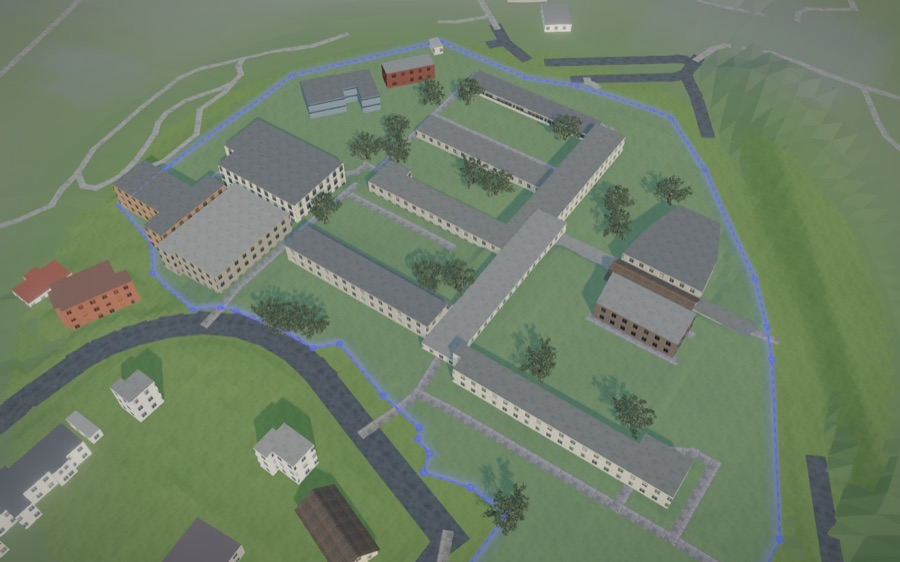
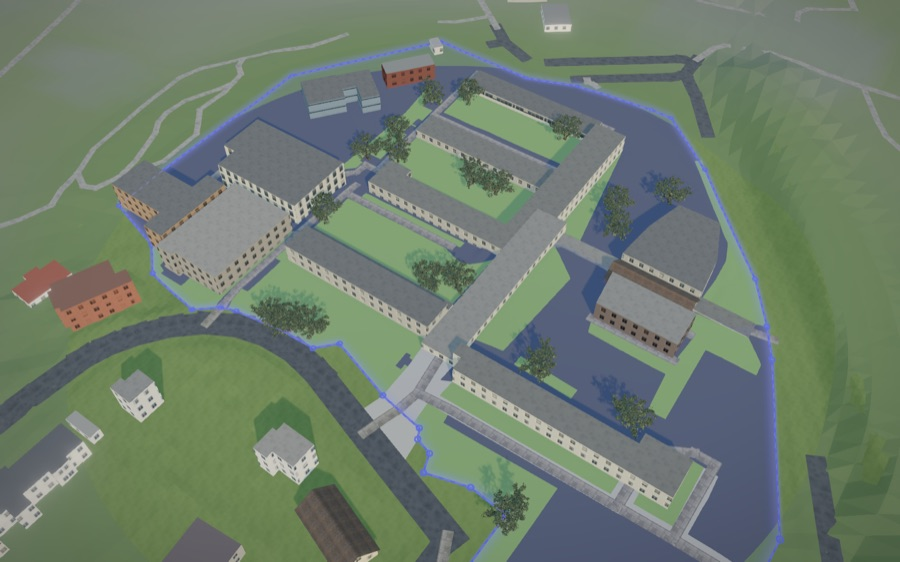
3D view: ground nobody has described renders as asphalt, not grass
The lawn had no depth offset while the plot was pushed back, so the lawn
showed through the asphalt plot. The lawn now lies behind the plot.
Homepage sample screenshots regenerated.

Claude-Session: https://claude.ai/code/session_01RDKnAet6JYboGt736HbMEX

diff --git a/assets/configurator/lawn.js b/assets/configurator/lawn.js
@@ -1,5 +1,6 @@
 import * as THREE from 'three';
 import { TerrainField } from './terrain.js';
+import { LAWN_OFFSET } from './ground_layers.js';
 import { LAWN, applyMetricUVs, proceduralTexture } from './procedural_textures.js';
 
 /**
@@ -121,6 +122,9 @@ export class Lawn {
             map: texture.map,
             bumpMap: texture.bumpMap,
             bumpScale: texture.bumpScale,
+            polygonOffset: true,
+            polygonOffsetFactor: LAWN_OFFSET,
+            polygonOffsetUnits: LAWN_OFFSET,
         }));
         ground.position.y = -0.002;
         ground.receiveShadow = true;

diff --git a/assets/configurator/ground_layers.js b/assets/configurator/ground_layers.js
@@ -10,6 +10,9 @@ export const SKU_PLOT = 'SC-PLOT';
 /** a ground area of the plot drawn as it is, a lawn on an asphalt plot (SpongeCitySku::AREA) */
 export const SKU_AREA = 'SC-AREA';
 
+/** polygonOffset of the lawn under the whole site: behind the plot, so an asphalt plot is not grassed over */
+export const LAWN_OFFSET = 6;
+
 /** polygonOffset (factor and units) per layer: the plot under its areas, the areas under every measure */
 export const GROUND_LAYER_OFFSET = Object.freeze({ [SKU_PLOT]: 4, [SKU_AREA]: 2 });
 
